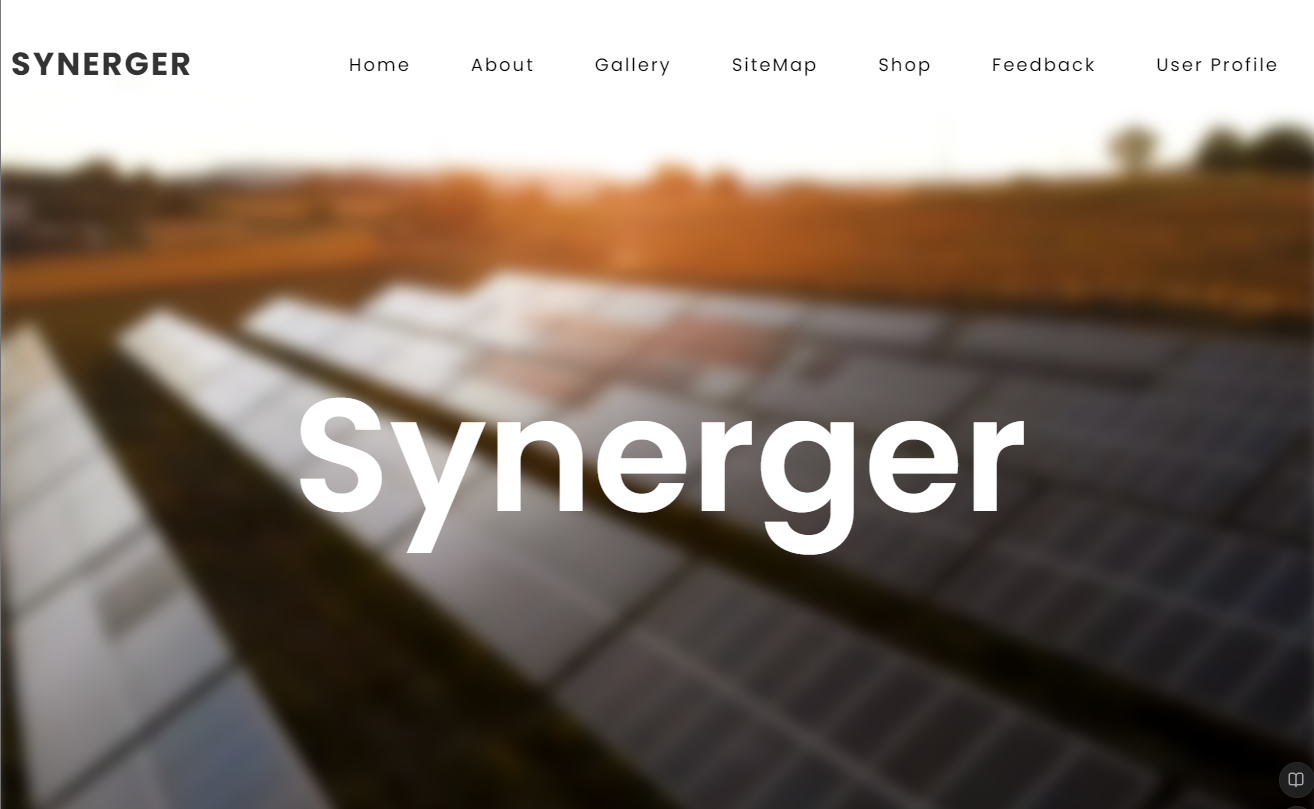
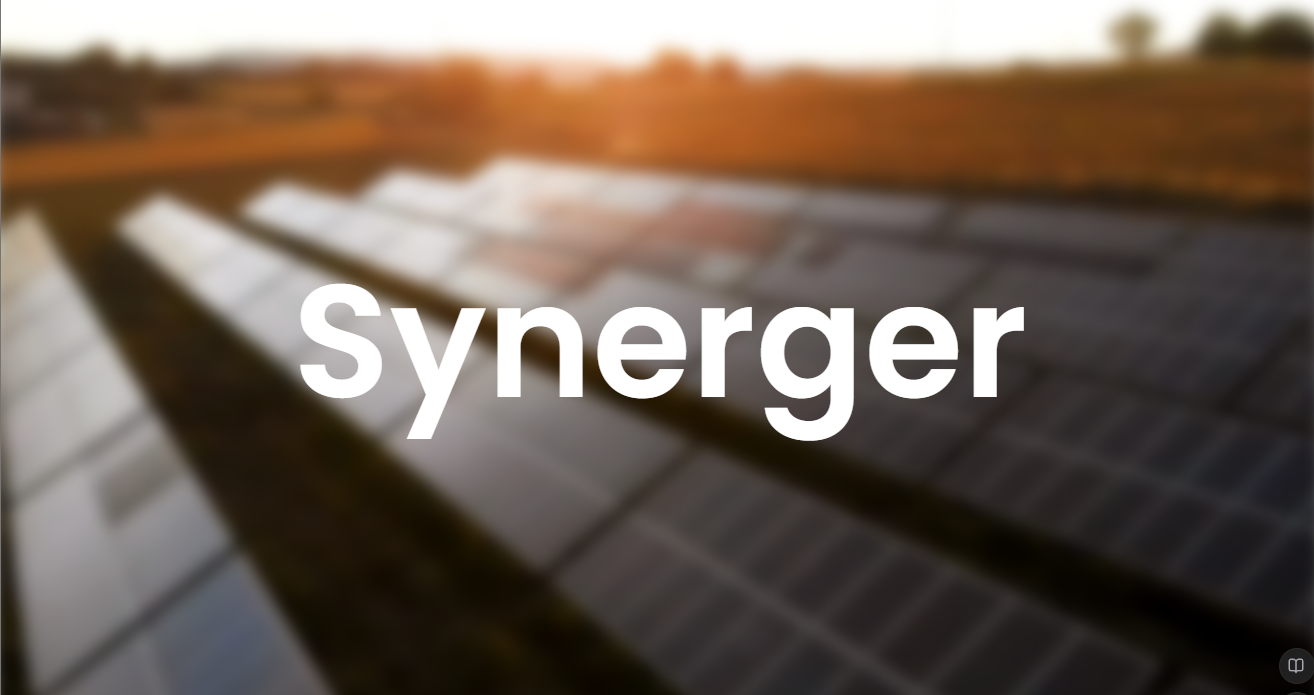
portfolio updates

diff --git a/src/pages/PortfolioPage.tsx b/src/pages/PortfolioPage.tsx
@@ -109,12 +109,29 @@ const PortfolioPage: React.FC = () => {
     {
       id: 11,
       title: 'Synerger',
-      description: ' Blog page about sustainable energy.',
+      description: 'Blog page about sustainable energy.',
       category: ['Web'],
       image: '/projects/Synerger_dp.png',
       link: 'https://tharujaye.github.io/synerger/',
     },
+    {
+      id: 11,
+      title: 'Flight Booking App',
+      description:' A flight booking CLI application that allows users to search and book flights easily.',
+      category: ['Web'],
+      image: '/projects/FlightApp_dp.jpg',
+      link: 'https://github.com/tharujaye/Flight-Booking-App',
+    },
+    {
+      id: 12,
+      title: 'Bookstore App',
+      description: 'A Client Server architecture for a bookstore platform with a wide selection of books.',
+      category: ['Web'],
+      image: '/projects/BookstoreApp_dp.jpg',
+      link: 'https://github.com/tharujaye/Bookstore_App',
+    }
   ];
+  
 
   const categories = ['all', 'UI/UX', 'Web', 'Mobile', 'Branding'];
   